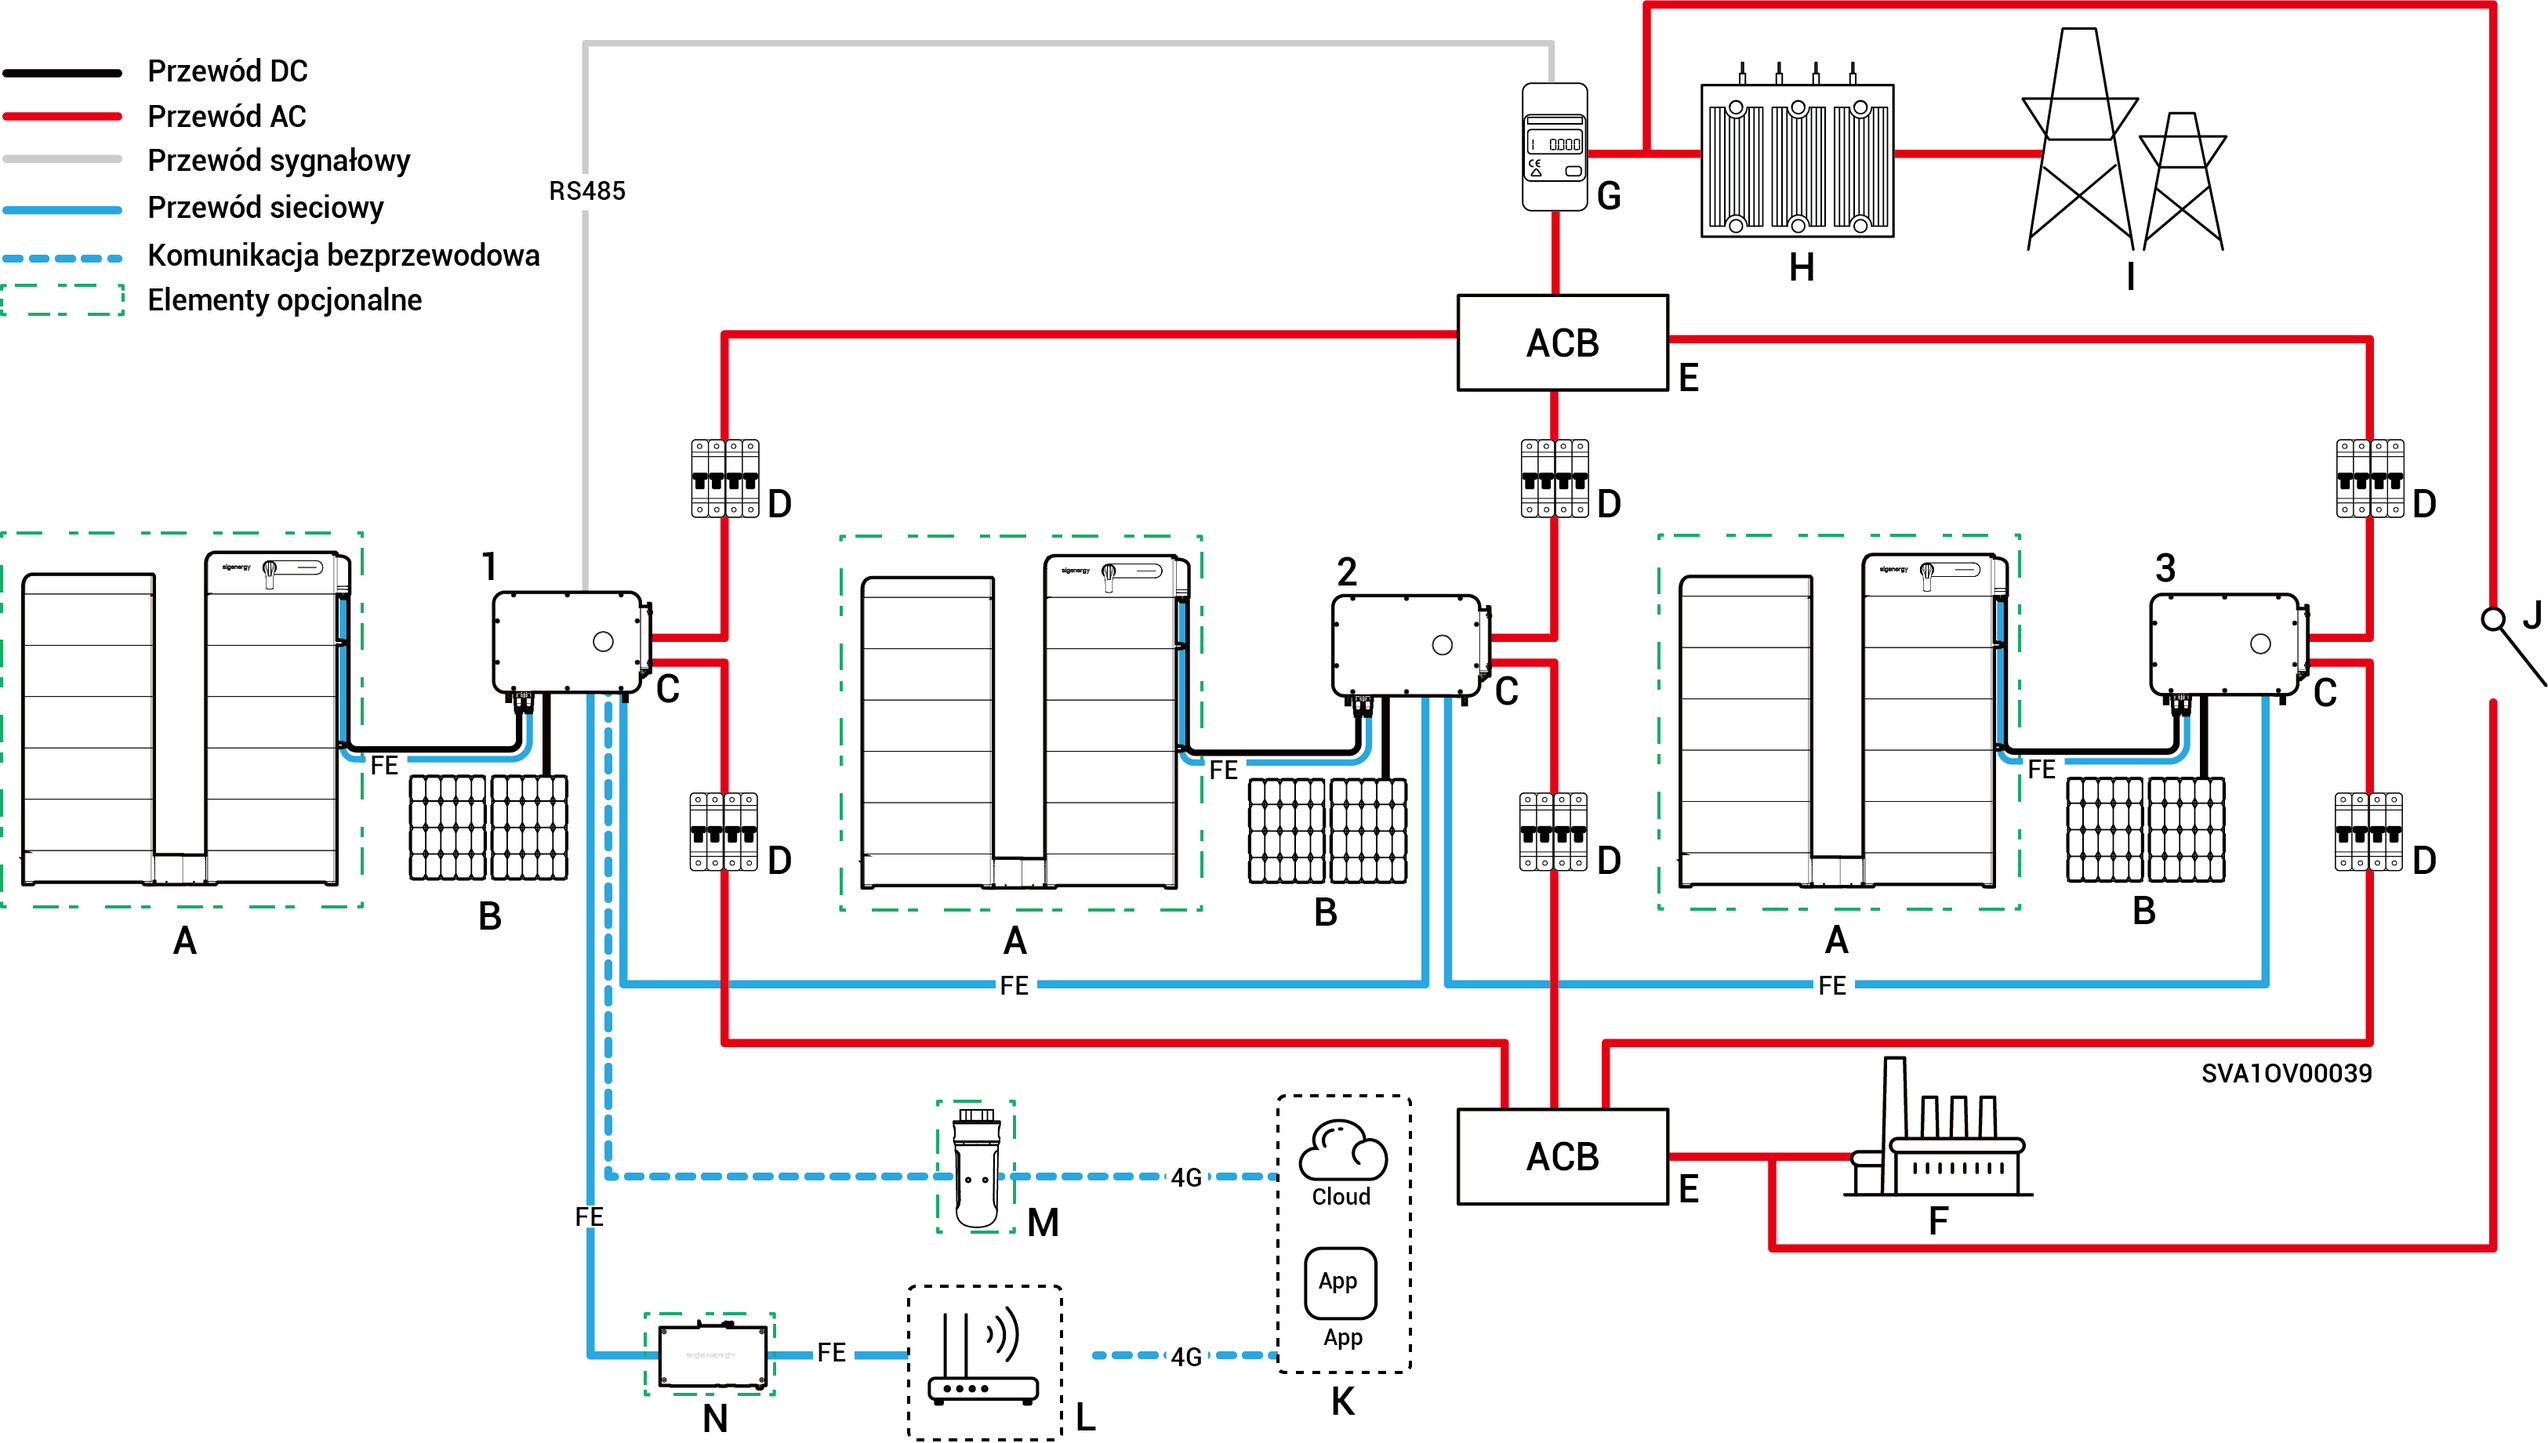
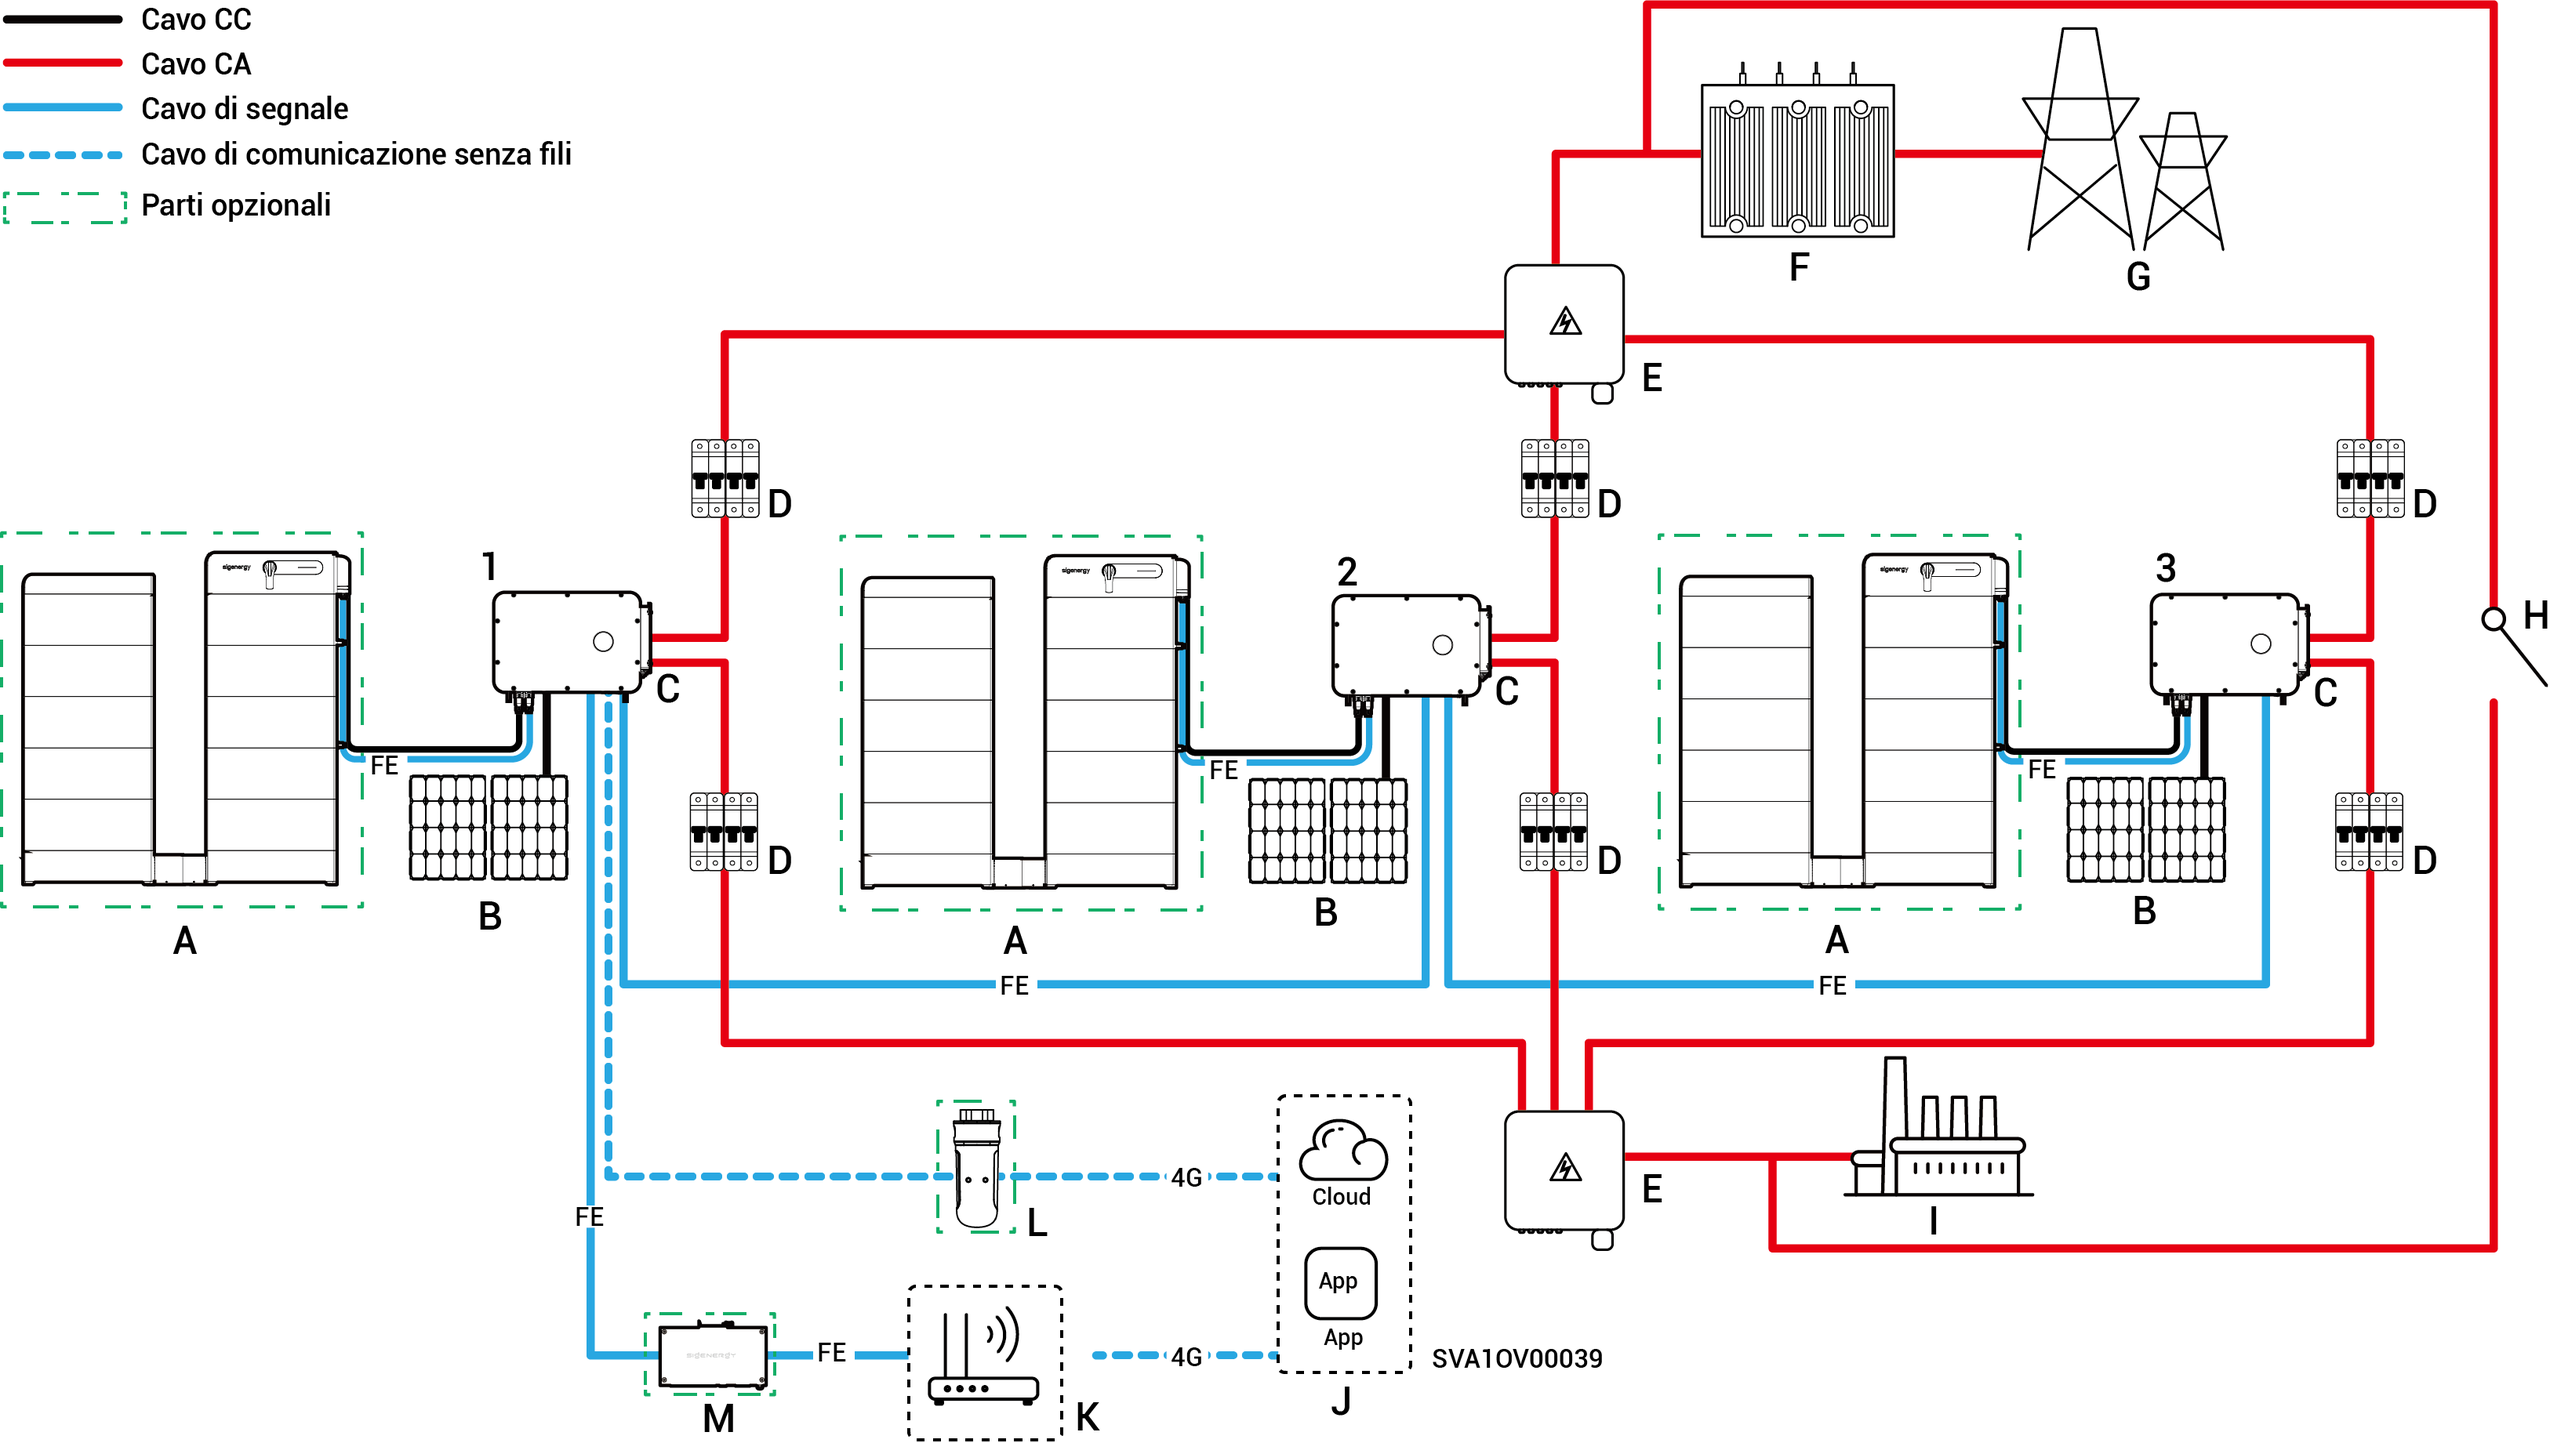
GITBOOK-2: No subject

diff --git a/introduction-to-energy-storage-system/system-wiring-introduction.md b/introduction-to-energy-storage-system/system-wiring-introduction.md
@@ -39,7 +39,7 @@
 
 <figure><img src="../.gitbook/assets/SVA1OV00039-IT.png" alt=""><figcaption></figcaption></figure>
 
-<table data-header-hidden><thead><tr><th valign="middle"></th><th valign="middle"></th><th width="159" valign="middle"></th><th width="147" valign="top"></th><th valign="top"></th></tr></thead><tbody><tr><td valign="middle">A. Batteria</td><td valign="middle">B. Pannello fotovoltaico</td><td valign="middle">C. Inverter</td><td valign="top">D. Interruttore AC (Dipende dalla potenza dell'inverter)</td><td valign="top">E. Pannello di Combinazione</td></tr><tr><td valign="middle">F. Carico di backup</td><td valign="middle">G. Sensore di potenza</td><td valign="middle">H. Sottostazione a scatola</td><td valign="top">I. Rete elettrica</td><td valign="top">J. Interruttore di controllo manuale</td></tr><tr><td valign="middle">K. mySigen</td><td valign="middle">L. Router</td><td valign="middle">M. CommMod</td><td valign="top">N. CommBridge</td><td valign="top"></td></tr></tbody></table>
+<table data-header-hidden><thead><tr><th valign="middle"></th><th valign="middle"></th><th width="159" valign="middle"></th><th width="147" valign="top"></th><th valign="top"></th></tr></thead><tbody><tr><td valign="middle">A. Batteria</td><td valign="middle">B. Pannello fotovoltaico</td><td valign="middle">C. Inverter</td><td valign="top">D. Interruttore AC (Dipende dalla potenza dell'inverter)</td><td valign="top">E. Pannello di Combinazione</td></tr><tr><td valign="middle">F. Sottostazione a scatola</td><td valign="middle">G. Rete elettrica</td><td valign="middle">H. Interruttore di controllo manuale</td><td valign="top">I. Carico di backup</td><td valign="top">J. mySigen</td></tr><tr><td valign="middle">K. Router</td><td valign="middle">L. CommMod</td><td valign="middle">M. CommBridge</td><td valign="top"></td><td valign="top"></td></tr></tbody></table>
 
 {% include "../.gitbook/includes/tips.md" %}
 
